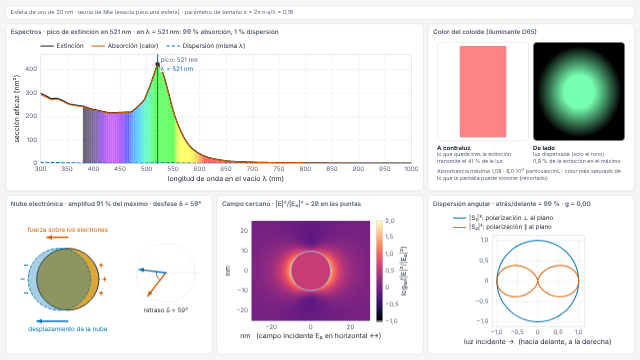
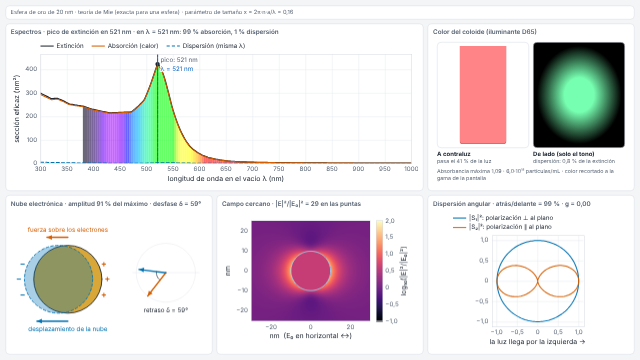
Encargo 01, paso 9b: prueba de humo del plasmón y retoques de las vistas
- tests/smoke.test.js: URL, vistas enlazadas, ocho presets con capturas, colores
  de la cubeta y de la luz dispersada, animación, presentación y los dos recorridos.
- Disposición compacta de dos columnas cuando el hueco es estrecho.
- Pico afinado con malla local; rótulos más cortos; nombre del material bien escrito.
- Textos del recorrido corregidos (hombro cuadrupolar, desfase del oro).

Claude-Session: https://claude.ai/code/session_01BCdeKR6mSAca7qLJgsxd6w

diff --git a/tests/smoke.test.js b/tests/smoke.test.js
@@ -402,6 +402,150 @@ test('oscilador: recorrido «Qué significa resonancia» en modo presentación',
   assert.deepEqual(errors, []);
 });
 
+// Plasmón: criterio de terminado del encargo 01 (cinco vistas enlazadas, presets,
+// recorridos y modo presentación). Guarda una captura de cada preset.
+test('plasmón: URL, cinco vistas enlazadas, colores y presets', { skip }, async () => {
+  const { page, errors, close } = await openPage('#/plasmon?material=Ag&diameter=20&lambda=387', { width: 1440, height: 900 });
+  const titles = page.locator('.plasmon-grid .panel-title');
+  const title = async (/** @type {number} */ i) => String(await titles.nth(i).textContent());
+  // Cinco paneles; cuatro lienzos (tres gráficas del trazador y la nube electrónica).
+  assert.equal(await titles.count(), 5);
+  assert.equal(await page.locator('.plasmon-grid canvas').count(), 4);
+  // La URL reproduce el estado: plata de 20 nm, con el pico de extinción cerca de 387 nm
+  // y la nube electrónica casi en cuadratura con la fuerza.
+  assert.match(await title(0), /pico de extinción en 38[5-9] nm/);
+  const delta = Number((await title(2)).match(/δ = (\d+)°/)?.[1]);
+  assert.ok(delta > 75 && delta < 100, `δ = ${delta}° en la resonancia de la plata`);
+  assert.match(String(await page.locator('.plasmon-model').textContent()), /Esfera de plata de 20 nm · teoría de Mie/);
+
+  // Vistas enlazadas: un clic en el espectro cambia λ en el control, en la URL y en las
+  // demás vistas (lejos de la resonancia, la nube sigue a la fuerza casi en fase).
+  const spectrum = page.locator('.plasmon-grid .panel').nth(0).locator('canvas');
+  const box = await spectrum.boundingBox();
+  await page.mouse.click(box.x + box.width * 0.85, box.y + box.height * 0.5);
+  await page.waitForFunction(() => !location.hash.includes('lambda=387&'));
+  const lambda = Number(new URLSearchParams(new URL(page.url()).hash.split('?')[1]).get('lambda'));
+  assert.ok(lambda > 800 && lambda <= 1000, `λ = ${lambda}`);
+  assert.equal(Number(await page.locator('[data-key="lambda"] input[type="range"]').inputValue()), lambda);
+  await page.waitForFunction(() => /δ = [0-5]°/.test(document.querySelectorAll('.plasmon-grid .panel-title')[2].textContent ?? ''));
+  assert.match(await title(0), new RegExp(`en λ = ${lambda} nm`));
+
+  /** Color de fondo de un elemento como [r, g, b]. @param {string} selector */
+  const rgbOf = async (selector) => {
+    const text = await page.locator(selector).evaluate((/** @type {HTMLElement} */ e) => e.style.background);
+    const match = text.match(/rgb\((\d+), (\d+), (\d+)\)/);
+    assert.ok(match, `sin color en ${selector}: "${text}"`);
+    return match.slice(1, 4).map(Number);
+  };
+
+  // Cada preset, con su captura y lo que debe verse en él.
+  for (const [id, expected] of [
+    ['oro-20', 'material=Au&shape=sphere&diameter=20&aspect=3&medium=1.33&lambda=521'],
+    ['oro-80', 'material=Au&shape=sphere&diameter=80&aspect=3&medium=1.33&lambda=549'],
+    ['oro-150', 'material=Au&shape=sphere&diameter=150&aspect=3&medium=1.33&lambda=640'],
+    ['plata-20', 'material=Ag&shape=sphere&diameter=20&aspect=3&medium=1.33&lambda=387'],
+    ['oro-20-vidrio', 'material=Au&shape=sphere&diameter=20&aspect=3&medium=1.5&lambda=535'],
+    ['baston-3', 'material=Au&shape=rod&diameter=10&aspect=3&medium=1.33&lambda=672&conc=1'],
+    ['licurgo', 'material=AuAg&shape=sphere&diameter=70&aspect=3&medium=1.5&lambda=503'],
+    ['oro-20-lejos', 'material=Au&shape=sphere&diameter=20&aspect=3&medium=1.33&lambda=800'],
+  ]) {
+    await page.locator(`.preset[data-preset="${id}"]`).click();
+    await page.waitForFunction((/** @type {string} */ e) => location.hash.includes(e), expected);
+    assert.equal(await page.locator(`.preset[data-preset="${id}"]`).getAttribute('aria-pressed'), 'true');
+    await page.waitForTimeout(150);
+    await page.screenshot({ path: join(shots, `plasmon-preset-${id}.png`) });
+    if (id === 'oro-20') {
+      // Oro coloidal: pico en el verde y cubeta rojiza a contraluz.
+      assert.match(await title(0), /pico de extinción en 52[0-3] nm/);
+      const [r, g, b] = await rgbOf('.plasmon-cuvette');
+      assert.ok(r > g && r > b, `cubeta de oro de 20 nm: rgb(${r}, ${g}, ${b})`);
+    } else if (id === 'oro-150') {
+      // El pico se ha ido al rojo y casi toda la extinción es dispersión.
+      assert.match(await title(0), /pico de extinción en 6[34]\d nm/);
+      assert.match(await title(0), /9\d % dispersión/);
+      assert.match(String(await page.locator('.plasmon-model').textContent()), /solo orientativo/);
+    } else if (id === 'baston-3') {
+      assert.match(String(await page.locator('.plasmon-model').textContent()), /teoría de Gans \(aproximación cuasiestática/);
+      assert.match(await title(0), /pico de extinción en 67\d nm/);
+      assert.match(await title(4), /dipolo/);
+    } else if (id === 'licurgo') {
+      // Roja a contraluz, verde por dispersión.
+      const cuvette = await rgbOf('.plasmon-cuvette');
+      assert.ok(cuvette[0] > cuvette[1] && cuvette[0] > cuvette[2], `Licurgo a contraluz: rgb(${cuvette})`);
+      const glow = await rgbOf('.plasmon-glow');
+      assert.ok(glow[1] > glow[0], `Licurgo dispersada: rgb(${glow})`);
+    }
+  }
+
+  // En una ventana más estrecha (1100 px, con los controles abiertos) tres columnas no
+  // caben: la rejilla pasa a dos columnas, y vuelve a tres al ensanchar la ventana.
+  assert.equal(await page.locator('.plasmon-grid').getAttribute('data-layout'), 'full');
+  await page.setViewportSize({ width: 1100, height: 800 });
+  await page.waitForSelector('.plasmon-grid[data-layout="compact"]');
+  await page.waitForTimeout(150);
+  await page.screenshot({ path: join(shots, 'plasmon-compacto.png') });
+  await page.setViewportSize({ width: 1440, height: 900 });
+  await page.waitForSelector('.plasmon-grid[data-layout="full"]');
+
+  // Concentración y camino óptico solo cambian el color de la cubeta: más camino, más oscura.
+  await page.locator('.preset[data-preset="oro-20"]').click();
+  await page.waitForFunction(() => location.hash.includes('diameter=20&aspect=3&medium=1.33&lambda=521'));
+  const before = await rgbOf('.plasmon-cuvette');
+  await page.locator('[data-key="path"] .control-number').fill('50');
+  await page.locator('[data-key="path"] .control-number').press('Enter');
+  await page.waitForFunction(() => location.hash.includes('path=50'));
+  await page.waitForTimeout(100);
+  const after = await rgbOf('.plasmon-cuvette');
+  assert.ok(after[1] < before[1] && after[2] < before[2], `con 50 mm debe pasar menos verde y azul: ${before} → ${after}`);
+
+  // La nube electrónica está animada y la pausa la detiene.
+  const cloud = page.locator('.plasmon-canvas');
+  const frame = () => cloud.evaluate((/** @type {HTMLCanvasElement} */ c) => c.toDataURL());
+  const a = await frame();
+  await page.waitForTimeout(300);
+  assert.notEqual(await frame(), a, 'la nube electrónica no se mueve');
+  await page.locator('.clock-play').click();
+  const b = await frame();
+  await page.waitForTimeout(300);
+  assert.equal(await frame(), b, 'en pausa la nube no debe moverse');
+
+  // Modo presentación: la tecla 7 salta a la copa de Licurgo.
+  await page.keyboard.press('p');
+  await page.keyboard.press('7');
+  await page.waitForFunction(() => location.hash.includes('material=AuAg'));
+  await page.waitForTimeout(400);
+  await page.screenshot({ path: join(shots, 'plasmon-presentacion.png') });
+  await close();
+  assert.deepEqual(errors, []);
+});
+
+// Los dos recorridos del plasmón, en modo presentación: cada paso lleva a su preset y
+// pinta su texto con fórmulas sin errores de KaTeX.
+for (const [tourId, steps] of /** @type {const} */ ([
+  ['oro-rojo', ['lambda=800', 'lambda=521', 'lambda=521', 'material=Ag', 'material=AuAg']],
+  ['tamano', ['diameter=20&aspect=3&medium=1.33', 'medium=1.5', 'diameter=80', 'diameter=150', 'shape=rod']],
+])) {
+  test(`plasmón: recorrido «${tourId}» en modo presentación`, { skip }, async () => {
+    const { page, errors, close } = await openPage('#/plasmon', { width: 1920, height: 1080 });
+    await page.locator(`.tour-start[data-tour="${tourId}"]`).click();
+    await page.keyboard.press('p');
+    for (let step = 0; step < steps.length; step++) {
+      assert.match(await page.locator('.tour-counter').textContent(), new RegExp(`Paso ${step + 1} de ${steps.length}`));
+      await page.waitForFunction((/** @type {string} */ e) => location.hash.includes(e), steps[step]);
+      // Los pasos cuyo texto lleva fórmulas deben pintarlas con KaTeX, sin errores.
+      const text = modules.find((m) => m.id === 'plasmon')?.tours.find((t) => t.id === tourId)?.steps[step].text ?? '';
+      if (text.includes('$')) await page.waitForSelector('.tour-text .katex');
+      assert.ok(String(await page.locator('.tour-text').textContent()).trim().length > 40, 'el paso no tiene texto');
+      assert.equal(await page.locator('.tour-text .katex-error').count(), 0);
+      await page.waitForTimeout(1700); // fin de la transición entre presets
+      await page.screenshot({ path: join(shots, `plasmon-recorrido-${tourId}-${step + 1}.png`) });
+      await page.keyboard.press('ArrowRight');
+    }
+    await close();
+    assert.deepEqual(errors, []);
+  });
+}
+
 // Navegación: de la portada a un módulo por su tarjeta, vuelta a la portada, y de un
 // módulo a otro. Cada cambio destruye el módulo anterior (gráficas, WebGL, reloj): no
 // debe quedar ningún error ni ningún resto en pantalla.
@@ -414,7 +558,7 @@ test('navegación entre portada y módulos sin errores ni restos', { skip }, asy
   await page.waitForSelector('.cover');
   assert.equal(await page.locator('canvas').count(), 0);
   assert.equal(await page.locator('.page-actions button').count(), 0);
-  for (const id of ['_galeria', '_plantilla', 'oscilador', '_galeria']) {
+  for (const id of ['_galeria', '_plantilla', 'plasmon', 'oscilador', '_galeria']) {
     await page.evaluate((/** @type {string} */ hash) => (location.hash = hash), `#/${id}`);
     await page.waitForSelector(`html[data-ready="true"][data-route="${id}"]`);
     assert.equal(await page.locator('.module-page').count(), 1);

diff --git a/src/modules/plasmon/view.js b/src/modules/plasmon/view.js
@@ -61,6 +61,10 @@ const POLAR_ANGLES = Array.from({ length: 91 }, (_, i) => 2 * i);
 /** Por encima de este parámetro de tamaño el mapa de campo (cuasiestático) es solo orientativo. */
 const QUASISTATIC_LIMIT = 0.3;
 
+/** Anchura de la rejilla, en tamaños de letra, por debajo de la cual se usa la disposición
+ *  compacta de dos columnas. */
+const COMPACT_BELOW_EM = 64;
+
 /** Color con el que se pinta el metal en la vista de la nube electrónica. */
 const METAL_TINT = /** @type {Record<string, string>} */ ({
   Au: '#d9a738',
@@ -175,6 +179,15 @@ export async function mount(container, ctx) {
   });
 
   const grid = createPanelGrid(container, 'plasmon-grid');
+  // Si el hueco es estrecho (ventana pequeña, o ficha y controles abiertos a la vez), tres
+  // columnas no caben: la rejilla pasa a dos columnas con desplazamiento vertical (regla
+  // [data-layout='compact'] de styles.css). El umbral va en tamaños de letra, de modo que
+  // el modo presentación (letra proporcional al ancho) nunca lo activa.
+  const layoutObserver = new ResizeObserver(() => {
+    const fontSize = parseFloat(getComputedStyle(grid).fontSize) || 14;
+    grid.dataset.layout = grid.clientWidth < COMPACT_BELOW_EM * fontSize ? 'compact' : 'full';
+  });
+  layoutObserver.observe(grid);
 
   // Línea de modelo: dice qué teoría se está usando y avisa cuando sale de su validez.
   const modelLine = el('p', { class: 'plasmon-model', role: 'status' });
@@ -209,13 +222,13 @@ export async function mount(container, ctx) {
         'figure',
         { class: 'plasmon-swatch' },
         el('div', { class: 'plasmon-lightbox', title: 'Cubeta vista a contraluz, sobre una pantalla blanca' }, cuvette),
-        el('figcaption', {}, el('strong', { text: 'A contraluz' }), el('span', { text: 'lo que queda tras la extinción' }), transmittedCaption),
+        el('figcaption', {}, el('strong', { text: 'A contraluz' }), transmittedCaption),
       ),
       el(
         'figure',
         { class: 'plasmon-swatch' },
         el('div', { class: 'plasmon-darkbox', title: 'Luz dispersada, vista de lado sobre fondo negro (solo el tono: brillo normalizado)' }, glow),
-        el('figcaption', {}, el('strong', { text: 'De lado' }), el('span', { text: 'luz dispersada (solo el tono)' }), scatteredCaption),
+        el('figcaption', {}, el('strong', { text: 'De lado (solo el tono)' }), scatteredCaption),
       ),
     ),
     colorNote,
@@ -234,7 +247,7 @@ export async function mount(container, ctx) {
   // (d) Campo cercano.
   const fieldPanel = addPanel(grid, 'Campo cercano', { area: 'campo' });
   const fieldPlot = createPlot(fieldPanel.body, {
-    xLabel: 'nm   (campo incidente E₀ en horizontal ↔)',
+    xLabel: 'nm  (E₀ en horizontal ↔)',
     yLabel: 'nm',
     equalAspect: true,
     legend: false,
@@ -244,7 +257,7 @@ export async function mount(container, ctx) {
   // (e) Diagrama polar de dispersión.
   const polarPanel = addPanel(grid, 'Diagrama de dispersión', { area: 'polar' });
   const polarPlot = createPlot(polarPanel.body, {
-    xLabel: 'luz incidente →  (hacia delante, a la derecha)',
+    xLabel: 'la luz llega por la izquierda →',
     xRange: [-1.12, 1.12],
     yRange: [-1.12, 1.12],
     xTicks: [-1, -0.5, 0, 0.5, 1],
@@ -347,21 +360,23 @@ export async function mount(container, ctx) {
     const now = particleResponse(particle, lambda);
     const epsilon = particle.epsilon(lambda);
     const x = sizeParameter(long, lambda, particle.mediumIndex);
-    const name = materialNames[String(state.material)];
+    // Nombre del material con la inicial en minúscula, para ir en mitad de una frase.
+    const fullName = materialNames[String(state.material)];
+    const name = fullName.charAt(0).toLowerCase() + fullName.slice(1);
 
     // Línea de modelo y validez.
     if (isRod) {
       const length = 2 * long;
       const tooBig = x > QUASISTATIC_LIMIT;
       modelLine.textContent =
-        `Bastón de ${name.toLowerCase()} de ${formatEs(length, 0)} × ${formatEs(particle.diameter, 0)} nm · teoría de Gans (aproximación cuasiestática, promedio de orientaciones): ` +
+        `Bastón de ${name} de ${formatEs(length, 0)} × ${formatEs(particle.diameter, 0)} nm · teoría de Gans (aproximación cuasiestática, promedio de orientaciones): ` +
         (tooBig
           ? `⚠ el bastón ya no es mucho menor que la longitud de onda (x = ${formatEs(x)}); el resultado es solo orientativo.`
           : `vale porque el bastón es mucho menor que la longitud de onda (x = ${formatEs(x)}).`);
       modelLine.dataset.warning = String(tooBig);
     } else {
       modelLine.textContent =
-        `Esfera de ${name.toLowerCase()} de ${formatEs(particle.diameter, 0)} nm · teoría de Mie (exacta para una esfera) · parámetro de tamaño x = 2π·n·a/λ = ${formatEs(x)}` +
+        `Esfera de ${name} de ${formatEs(particle.diameter, 0)} nm · teoría de Mie (exacta para una esfera) · parámetro de tamaño x = 2π·n·a/λ = ${formatEs(x)}` +
         (x > QUASISTATIC_LIMIT ? ' · el mapa de campo cercano usa la aproximación dipolar cuasiestática: aquí es solo orientativo.' : '');
       modelLine.dataset.warning = 'false';
     }
@@ -419,12 +434,12 @@ export async function mount(container, ctx) {
     const scattered = engine.colorOfScattered({ ...visibleSpectrum, values: sample.scattered });
     cuvette.style.background = transmitted.css;
     glow.style.background = `radial-gradient(closest-side, ${scattered.css} 35%, transparent 100%)`;
-    transmittedCaption.textContent = `transmite el ${formatEs(100 * transmitted.XYZ[1], 0)} % de la luz`;
+    transmittedCaption.textContent = `pasa el ${formatEs(100 * transmitted.XYZ[1], 0)} % de la luz`;
     const albedo = peak.y > 0 ? spectrum.csca[peak.index] / spectrum.cext[peak.index] : 0;
-    scatteredCaption.textContent = `${formatEs(100 * albedo, albedo < 0.1 ? 1 : 0)} % de la extinción en el máximo`;
+    scatteredCaption.textContent = `dispersión: ${formatEs(100 * albedo, albedo < 0.1 ? 1 : 0)} % de la extinción`;
     colorNote.textContent =
       `Absorbancia máxima ${formatEs(sample.peakAbsorbance)} · ${formatScientific(sample.numberDensity * 1e21)} partículas/mL` +
-      (transmitted.inGamut && scattered.inGamut ? '' : ' · color más saturado de lo que la pantalla puede mostrar (recortado)');
+      (transmitted.inGamut && scattered.inGamut ? '' : ' · color recortado a la gama de la pantalla');
 
     // (c) Nube electrónica: amplitud y desfase de la oscilación forzada, de α(ω).
     const oscillation = drivenOscillation(now.alpha);
@@ -545,7 +560,7 @@ export async function mount(container, ctx) {
     const cx = particleBox.x + particleBox.w / 2;
     const cy = particleBox.y + particleBox.h / 2;
     // Semiejes en píxeles: caben las flechas y sus rótulos por encima y por debajo.
-    const rx = Math.min(particleBox.w * 0.3, Math.max(8, particleBox.h * 0.5 - fs * 4.2) * 0.8 * cloud.aspect);
+    const rx = Math.min(particleBox.w * 0.3, Math.max(8, particleBox.h * 0.5 - fs * 3.3) * 0.9 * cloud.aspect);
     const ry = rx / cloud.aspect;
     const reach = 0.3 * Math.min(rx, 2 * ry); // desplazamiento máximo dibujado (MUY exagerado)
     const dx = displacement * reach;
@@ -594,12 +609,12 @@ export async function mount(container, ctx) {
     g.lineWidth = Math.max(2, fs * 0.2);
     g.font = `${fs * 0.85}px ${family}`;
     g.textBaseline = 'alphabetic';
-    const forceY = Math.max(particleBox.y + fs * 2, cy - ry - fs * 1.5);
+    const forceY = Math.max(particleBox.y + fs * 1.9, cy - ry - fs * 1.1);
     g.strokeStyle = forceColor;
     g.fillStyle = forceColor;
     drawArrow(g, cx, forceY, cx + force * arrowLength, forceY, head);
     g.fillText('fuerza sobre los electrones', cx, forceY - fs * 0.8);
-    const cloudY = Math.min(particleBox.y + particleBox.h - fs * 2, cy + ry + fs * 1.5);
+    const cloudY = Math.min(particleBox.y + particleBox.h - fs * 1.9, cy + ry + fs * 1.1);
     g.strokeStyle = cloudColor;
     g.fillStyle = cloudColor;
     drawArrow(g, cx, cloudY, cx + displacement * arrowLength, cloudY, head);
@@ -651,6 +666,7 @@ export async function mount(container, ctx) {
     },
     destroy() {
       offTick();
+      layoutObserver.disconnect();
       spectrumPlot.destroy();
       fieldPlot.destroy();
       polarPlot.destroy();

diff --git a/src/ui/styles.css b/src/ui/styles.css
@@ -1048,7 +1048,7 @@ h3 {
   flex-direction: column;
   gap: 0.5rem;
   padding: 0.6rem;
-  overflow: hidden;
+  overflow-y: auto;
 }
 
 .plasmon-swatches {
@@ -1084,7 +1084,7 @@ h3 {
    es la luz que la ilumina). */
 .plasmon-lightbox,
 .plasmon-darkbox {
-  flex: 1 1 auto;
+  flex: 1 1 0;
   min-height: 3.5rem;
   display: flex;
   align-items: stretch;
@@ -1121,8 +1121,23 @@ h3 {
   color: var(--text-soft);
 }
 
+/* Disposición compacta (la activa view.js cuando el hueco es estrecho): dos columnas y
+   desplazamiento vertical dentro del área de vistas. */
+.plasmon-grid[data-layout='compact'] {
+  overflow-y: auto;
+  grid-template-columns: minmax(0, 1fr) minmax(0, 1fr);
+  grid-template-rows: auto 21em 19em 19em;
+  grid-template-areas:
+    'modelo modelo'
+    'espectro espectro'
+    'color nube'
+    'campo polar';
+}
+
 @media (max-width: 760px) {
-  .plasmon-grid {
+  .plasmon-grid,
+  .plasmon-grid[data-layout='compact'] {
+    overflow-y: visible;
     grid-template-areas: none;
     grid-template-rows: none;
   }

diff --git a/src/modules/plasmon/module.js b/src/modules/plasmon/module.js
@@ -154,7 +154,7 @@ const descriptor = {
         },
         {
           preset: 'oro-150',
-          text: 'A 150 nm el pico dipolar está en el rojo y casi todo es dispersión. A menor $\\lambda$ asoma un segundo máximo: el modo **cuadrupolar**. Lleva $\\lambda$ a 530 nm y mira el diagrama polar: dipolo y cuadrupolo interfieren y la luz se dispersa sobre todo **hacia delante**. Todo esto solo lo da la teoría de Mie completa.',
+          text: 'A 150 nm el pico dipolar está en el rojo y casi todo es dispersión. A menor $\\lambda$ asoma un hombro: el modo **cuadrupolar**. Lleva $\\lambda$ a 530 nm y mira el diagrama polar: dipolo y cuadrupolo interfieren y la luz se dispersa sobre todo **hacia delante**. Todo esto solo lo da la teoría de Mie completa.',
         },
         {
           preset: 'baston-3',

diff --git a/PROGRESO.md b/PROGRESO.md
@@ -14,8 +14,8 @@ Registro vivo del estado del laboratorio. Cada sesión lo lee al empezar y lo ac
 
 ## Sesión en curso
 - Encargo: 01 Plasmón, Mie y color (`docs/encargos/01-plasmon-mie.md`). Rama `claude/bold-goldberg-s51hqd`.
-- Último paso terminado: 9 (primera versión completa: física, vistas, presets, recorridos, ficha, miniatura)
-- Siguiente paso: 9b (prueba de humo propia del módulo: URL, vistas enlazadas, presets, recorridos) y después 10 (revisión con subagente, documentación de servicios, cierre)
+- Último paso terminado: 9b (prueba de humo propia del módulo y retoques de las vistas)
+- Siguiente paso: 10 (documentar el motor de color y la biblioteca de materiales para reutilizarlos, árbol de `ARQUITECTURA.md` al día, revisión con subagente, cierre)
 
 ### Plan del encargo 01 (pasos y estado)
 
@@ -30,7 +30,7 @@ Registro vivo del estado del laboratorio. Cada sesión lo lee al empezar y lo ac
 | 6 | Vistas enlazadas (a)–(e) y controles | hecho |
 | 7–8 | Presets y recorridos | hecho |
 | 9 | Ficha y miniatura | hecho |
-| 9b | Prueba de humo propia del módulo (URL, vistas enlazadas, presets, recorridos, presentación) | pendiente |
+| 9b | Prueba de humo propia del módulo (URL, vistas enlazadas, presets, recorridos, presentación) | hecho |
 | 10 | Revisión con subagente, documentación de servicios, cierre | pendiente |
 
 ### Evidencia por paso (encargo 01)
@@ -162,6 +162,8 @@ Entorno de la sesión: Node 22.23, Python 3.13, Playwright + Chromium disponible
 - **Valores con datos reales (Johnson & Christy), sin ajustar nada**: Au de 20 nm en agua, pico en **521,1 nm** (intervalo pedido 515–528); Ag de 20 nm en agua, **386,9 nm** (385–410); Au de 40 → 150 nm: 524 → 536 → 549 → 570 → 591 → 640 nm; Au de 20 nm con n_m de 1 a 2: 506 → 588 nm; bastón de Au con relación de aspecto 1 → 5: 521 → 868 nm (672 nm con 3). Color: Au de 20 nm a contraluz, L*a*b* = (70, +49, +21); copa de Licurgo (Au-Ag 30:70 de 70 nm en n = 1,5): a contraluz a* = +53 (roja), dispersada a* = −61 (verde).
 - Pasos 6–9: `npm test` 311 en verde (la prueba de humo general ya carga el módulo en los dos temas, en pantalla estrecha y con su ficha, sin errores de consola). Capturas revisadas a ojo: tema claro, tema oscuro con el bastón, y modo presentación a 1920 × 1080 con oro de 150 nm.
 
+- Paso 9b: `npm test` 314 en verde. `tests/smoke.test.js` añade tres pruebas del módulo: estado desde la URL (plata de 20 nm: pico en 385–389 nm y δ cerca de 90°), clic en el espectro que cambia λ en control, URL y vistas, los ocho presets con sus capturas (`capturas/plasmon-preset-*.png`) y lo que debe verse en cada uno (cubeta de oro rojiza; Licurgo roja a contraluz y verde dispersada; bastón con aviso de Gans), disposición compacta, camino óptico que oscurece la cubeta, animación y pausa, tecla 7 en modo presentación y los dos recorridos paso a paso.
+
 ### Decisiones del encargo 01
 
 - 2026-11-11. **Base de datos de materiales**: `polyanskiy/refractiveindex.info-database`, commit `e6d15e3` (fijado en `data/materials/catalogo.json`). **Licencia comprobada: CC0 1.0 Universal** (archivo `LICENSE` del repositorio y cabecera de cada archivo de datos). Los archivos originales se copian sin tocar en `data/materials/originales/`, de modo que los JSON se pueden regenerar sin red.
@@ -190,6 +192,8 @@ Entorno de la sesión: Node 22.23, Python 3.13, Playwright + Chromium disponible
 - 2026-11-12. **Añadido a `plot2d.js`**: `yLabel` en los datos de `draw()` (sustituye al de las opciones en ese dibujo). El espectro pasa a «miles de nm²» cuando las secciones eficaces superan 2·10⁴ nm², para que el eje no mezcle 80000 con 1,0·10⁵.
 - 2026-11-12. **Línea de modelo** encima de las vistas: dice qué teoría se usa (Mie o Gans), el parámetro de tamaño x y avisa cuando el bastón deja de ser pequeño frente a λ o cuando el mapa de campo (cuasiestático) es solo orientativo (x > 0,3).
 - 2026-11-12. **Ocho presets**: los siete del encargo más «oro 20 nm, lejos de la resonancia» (λ = 800 nm), que necesita el primer paso del recorrido «por qué el oro coloidal es rojo».
+
+- 2026-11-12. **Disposición compacta del plasmón**: cuando el hueco de las vistas mide menos de 64 tamaños de letra (ventana pequeña, o ficha abierta en un portátil), la rejilla pasa de tres columnas a dos con desplazamiento vertical. Lo decide `view.js` con un `ResizeObserver` y lo aplica una regla de `styles.css`; el modo presentación nunca la activa.
 
 ## Problemas abiertos
 
